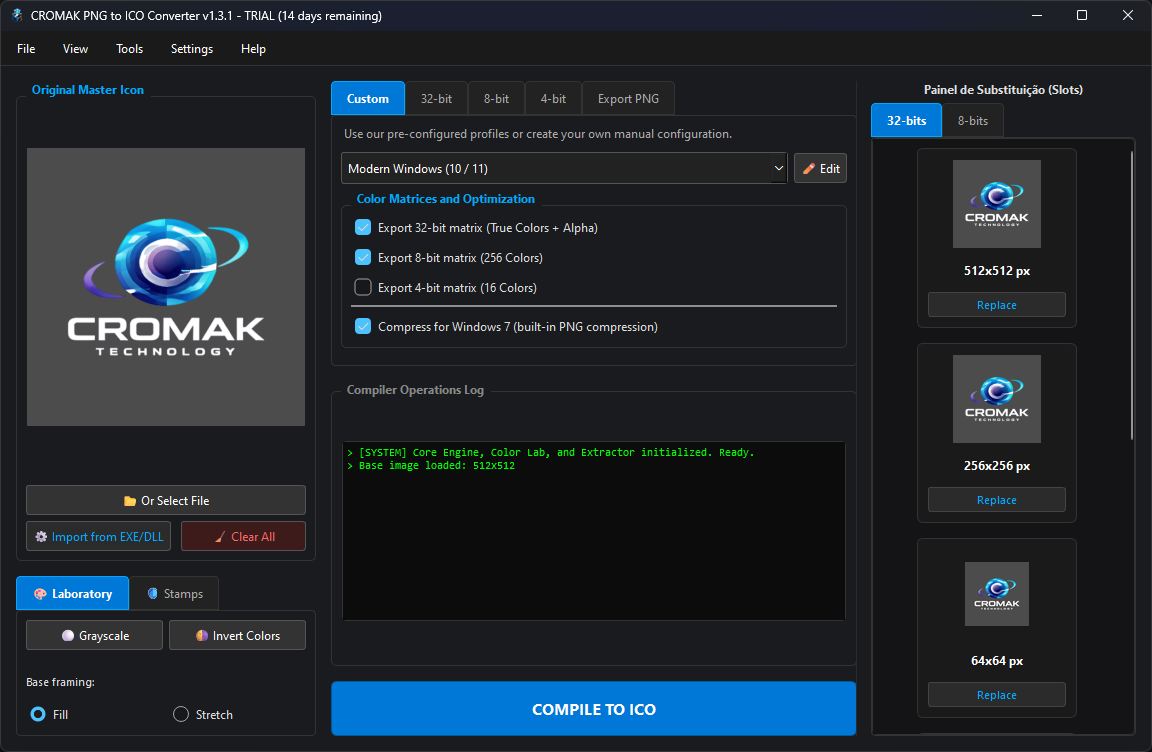
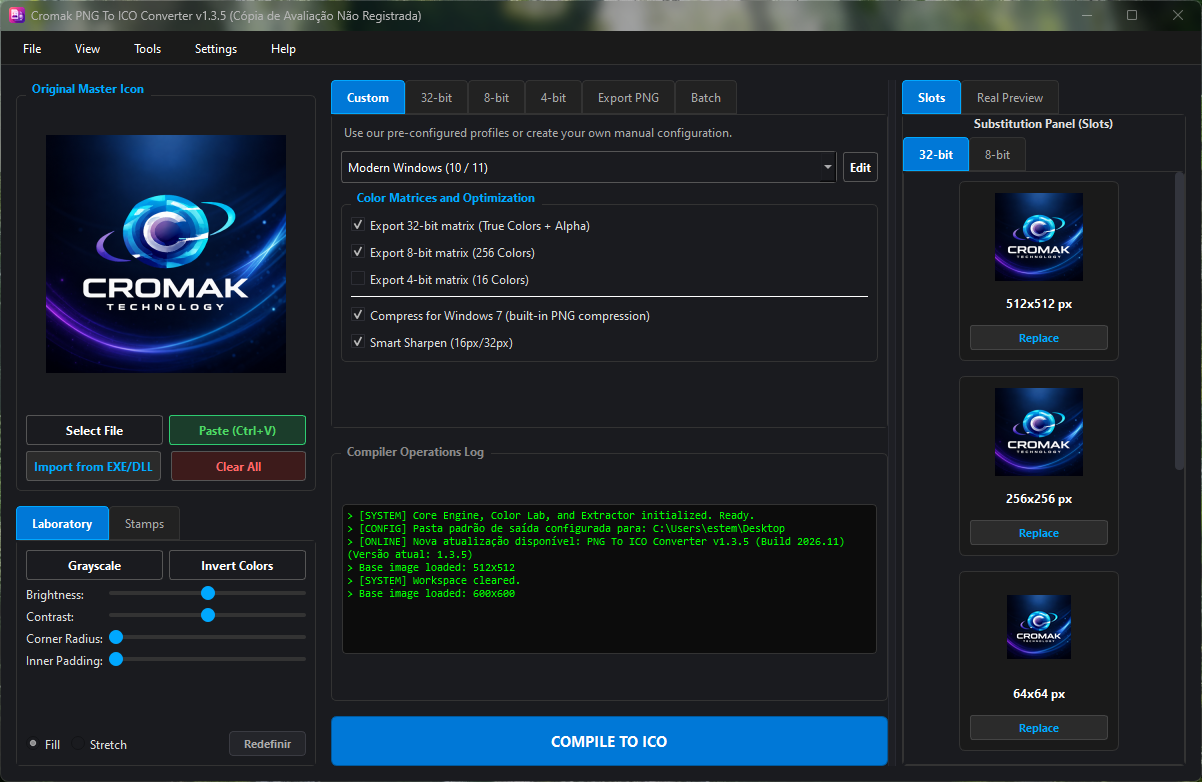
Update PNG-to-ICO converter to v1.3.5
Bump the displayed version in the English and Portuguese pages and refresh the converter screenshots.

diff --git a/en/png_to_ico_converter.html b/en/png_to_ico_converter.html
@@ -90,7 +90,7 @@
                 </p>
                 
                 <p style="font-size: 1.0rem; color: var(--accent); margin-bottom: 20px; max-width: 900px; margin-left: auto; margin-right: auto;">
-                    Version: 1.3.1 (Build 2026.04)
+                    Version: 1.3.5 (Build 2026.11)
                 </p>
                 
                 <div style="margin-bottom: 40px;">

diff --git a/pt/png_to_ico_converter.html b/pt/png_to_ico_converter.html
@@ -90,7 +90,7 @@
                 </p>
                 
 				<p style="font-size: 1.0rem; color: var(--accent); margin-bottom: 20px; max-width: 900px; margin-left: auto; margin-right: auto;">
-                    Versão: 1.3.1 (Build 2026.04)
+                    Versão: 1.3.5 (Build 2026.11)
                 </p>
 				
                 <div style="margin-bottom: 40px;">
